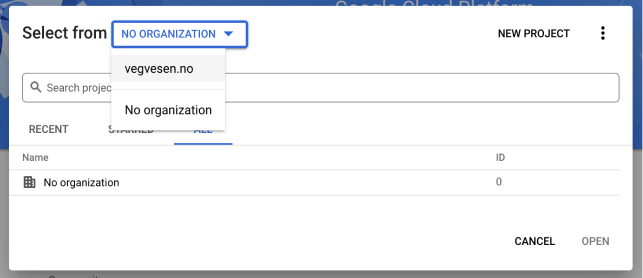
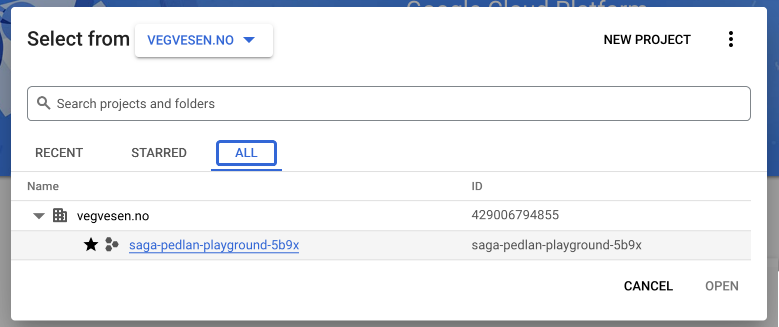
Remove no longer relevant section on choosing vegvesen.no
The defaults seems to have changed since we last wrote this.

KB-9893

diff --git a/docs/02-google-cloud-platform/01-kom-i-gang.md b/docs/02-google-cloud-platform/01-kom-i-gang.md
@@ -16,10 +16,6 @@ Når du jobber i GCP skal du alltid ha valgt dette prosjektet. Dette kan du gjø
 
 ![Skjermbilde av valg av organisasjon i Google Cloud Platform](img/onboarding-1.png)
 
-Sørg for at det står vegvesen.no i «Select from ...» øverst i prosjektvelgeren.
-
-![Skjermbilde av Select from i prosjektvelgeren](img/onboarding-2.png)
-
 Velg så fanen «All». Klikk deretter på ditt prosjekt, som har et navn på formatet: «saga-< brukernavn>-playground-< suffix>». Du skal da kunne se navnet på ditt prosjekt øverst på siden.
 
-![Skjermbilde av valg av fanen "all".](img/onboarding-3.png)
+![Skjermbilde av valg av fanen "all".](img/onboarding-2.png)
